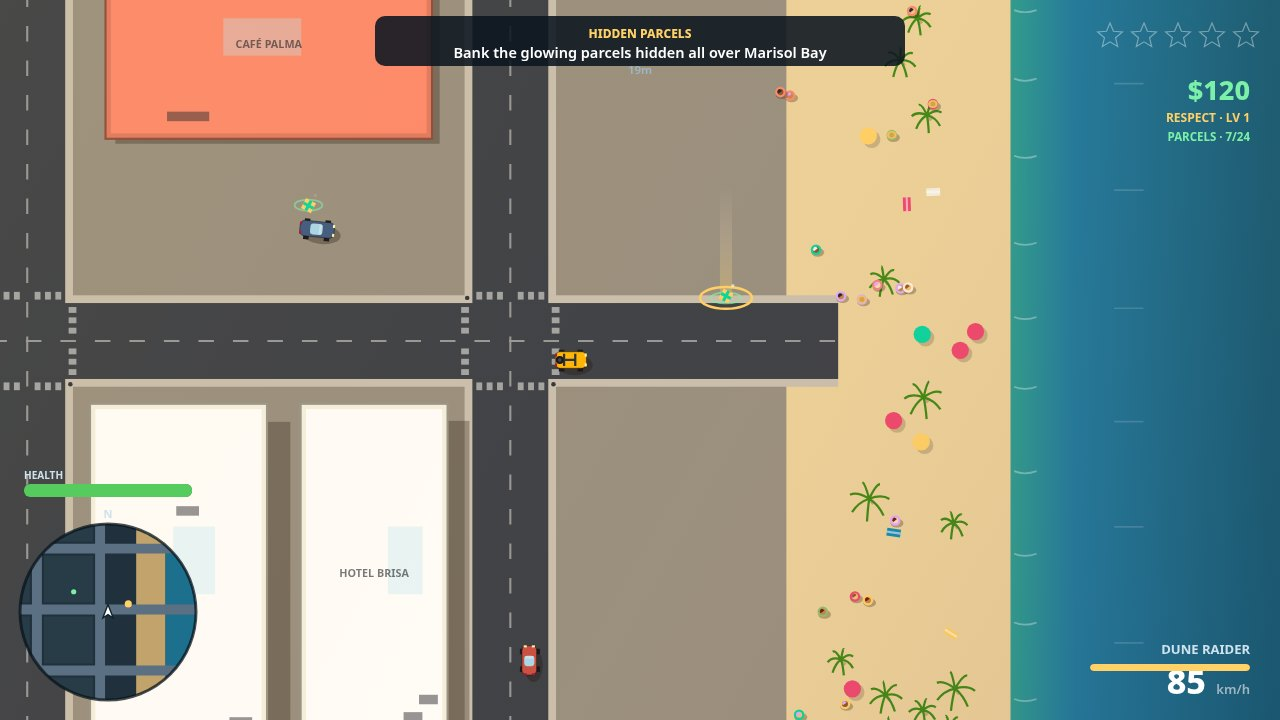
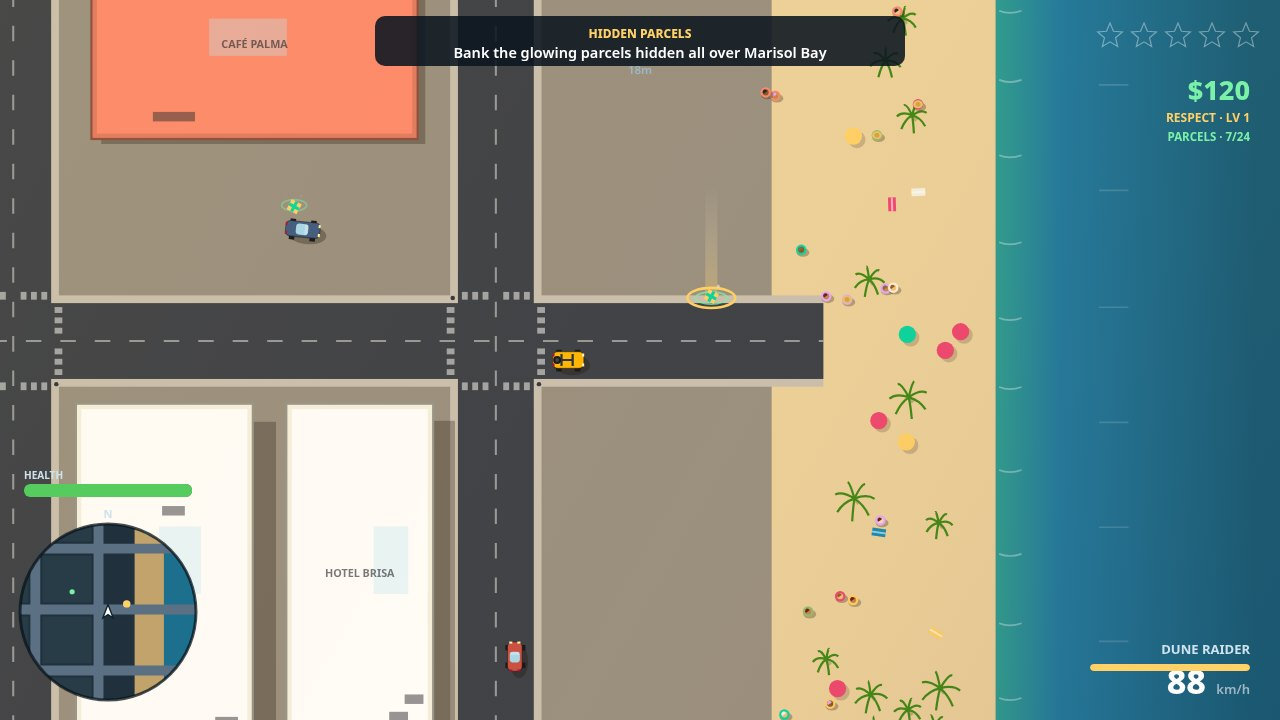
Refinement pass in a recorded session: parcel-hunting aids (brightening rings, breathing minimap pips), a hotter Shore Run rematch, Bastion SUV sand pace, brisker traffic and MBPD reinforcement timing, wider car-entry reach, save hardening, horn level, wider pedestrian wardrobe, warmer Flats rooftop

diff --git a/game/src/config.js b/game/src/config.js
@@ -63,7 +63,7 @@ export const CAR_TYPES = {
   coupe: { label: 'Vireo Coupe', len: 40, wid: 18, top: 345, accel: 390, grip: 7.8, hp: 85, colours: ['#e07a5f', '#3d405b', '#81b29a', '#f2cc8f'] },
   sports: { label: 'Katana GT', len: 42, wid: 19, top: 405, accel: 470, grip: 8.4, hp: 80, colours: ['#ef476f', '#ffd166', '#06d6a0', '#118ab2', '#9b5de5'] },
   buggy: { label: 'Dune Raider', len: 36, wid: 19, top: 330, accel: 430, grip: 8.6, hp: 75, sand: 0.85, colours: ['#ffb703', '#06d6a0', '#ef476f', '#f4f1de'] },
-  suv: { label: 'Bastion SUV', len: 44, wid: 21, top: 285, accel: 300, grip: 6.4, hp: 130, colours: ['#22223b', '#4a4e69', '#9a8c98', '#c9ada7'] },
+  suv: { label: 'Bastion SUV', len: 44, wid: 21, top: 285, accel: 300, grip: 6.4, hp: 130, sand: 0.55, colours: ['#22223b', '#4a4e69', '#9a8c98', '#c9ada7'] },
   van: { label: 'Hauler Van', len: 46, wid: 21, top: 255, accel: 260, grip: 6.0, hp: 140, colours: ['#e8e9eb', '#b8b8bd', '#5e60ce'] },
   armored: { label: 'Brinks Armored Van', len: 48, wid: 22, top: 270, accel: 270, grip: 6.2, hp: 260, colours: ['#5b6770'] },
   police: { label: 'MBPD Interceptor', len: 42, wid: 19, top: 385, accel: 440, grip: 8.2, hp: 150, sand: 0.62, colours: ['#f4f6f8'] },

diff --git a/game/src/render.js b/game/src/render.js
@@ -434,11 +434,14 @@ function drawStashes(ctx, S) {
   for (const stash of S.city.stashes) {
     if (stash.taken || !inView(S, stash.x, stash.y, 60)) continue;
     const bob = Math.sin(S.time * 2.6 + stash.id * 1.7) * 2.2;
+    // The ring brightens and swells as Juno closes in: a quiet promise
+    // that she is nearly on top of this one.
+    const near = Math.max(0, 1 - Math.hypot(stash.x - S.player.x, stash.y - S.player.y) / 300);
     ctx.save();
-    ctx.strokeStyle = `rgba(123,241,168,${0.5 + Math.sin(S.time * 3.4 + stash.id) * 0.2})`;
+    ctx.strokeStyle = `rgba(123,241,168,${0.5 + Math.sin(S.time * 3.4 + stash.id) * 0.2 + near * 0.3})`;
     ctx.lineWidth = 2;
     ctx.beginPath();
-    ctx.ellipse(stash.x, stash.y, 15 + Math.sin(S.time * 3.4 + stash.id) * 2.4, 6.5, 0, 0, Math.PI * 2);
+    ctx.ellipse(stash.x, stash.y, 15 + Math.sin(S.time * 3.4 + stash.id) * 2.4 + near * 4, 6.5 + near * 1.6, 0, 0, Math.PI * 2);
     ctx.stroke();
     ctx.translate(stash.x, stash.y + bob);
     ctx.rotate(0.5);

diff --git a/game/src/save.js b/game/src/save.js
@@ -13,7 +13,9 @@ export function loadSave() {
     const raw = localStorage.getItem(SAVE_KEY);
     if (!raw) return null;
     const data = JSON.parse(raw);
-    const usable = typeof data === 'object' && data !== null && typeof data.cash === 'number';
+    // A hand-edited or half-written save can carry NaN or a string where
+    // the purse should be; only a finite cash figure is worth trusting.
+    const usable = typeof data === 'object' && data !== null && Number.isFinite(data.cash);
     return usable ? data : null;
   } catch {
     return null;
@@ -46,6 +48,7 @@ export function hasSave() {
 /** The slice of the live state worth keeping between visits. */
 export function snapshotOf(S) {
   return {
+    v: 1, // save format version, so a future shape can be told apart
     cash: S.player.cash,
     respect: S.player.respect,
     storyIdx: S.storyIdx,

diff --git a/game/src/hud.js b/game/src/hud.js
@@ -111,9 +111,10 @@ export function drawMinimap(ctx, S, cx, cy, radius) {
   if (S.city.places.safehouse) {
     blip(S.city.places.safehouse.x, S.city.places.safehouse.y, '#ffffff', 3);
   }
-  // Hidden parcels still out there show as small mint pips in range.
+  // Hidden parcels still out there show as small mint pips in range,
+  // breathing gently so the eye catches them among the static blips.
   for (const stash of S.city.stashes) {
-    if (!stash.taken) blip(stash.x, stash.y, '#7bf1a8', 2.6);
+    if (!stash.taken) blip(stash.x, stash.y, '#7bf1a8', 2.7 + Math.sin(S.time * 3.4 + stash.id) * 0.5);
   }
   if (S.marker && S.screen === 'play') blip(S.marker.x, S.marker.y, '#ffd166', 4);
   for (const ped of S.peds) {

diff --git a/game/src/random.js b/game/src/random.js
@@ -39,15 +39,16 @@ export function chance(rng, p) {
 /**
  * A shuffled copy of a list, Fisher–Yates from the back — the same walk
  * shuffledNames in city.js always made, now shared: the name bags, the
- * hidden-parcel spots and anything else that wants a fair deal.
+ * hidden-parcel spots and anything else that wants a fair deal. The
+ * input list is never mutated; the caller gets a fresh array back.
  */
 export function shuffle(rng, list) {
   const out = [...list];
   for (let i = out.length - 1; i > 0; i--) {
     const j = Math.floor(rng() * (i + 1));
-    const tmp = out[i];
+    const held = out[i];
     out[i] = out[j];
-    out[j] = tmp;
+    out[j] = held;
   }
   return out;
 }

diff --git a/main.ts b/main.ts
@@ -39,7 +39,9 @@ if (existsSync(shotsDir)) cpSync(shotsDir, join(outDir, 'screenshots'), { recurs
 // anyway: over 4 screenshots or one past 256 KiB, a game/ past 993 entries
 // or 48 MiB, or a single game/ path past 1000 bytes. /output as a whole is
 // capped at 1000 entries and 64 MiB, shared by game/, screenshots/ and
-// dossier.json, so the margins matter.
+// dossier.json, so the margins matter. The four screenshots are the staged
+// scenes listed in shots.json; take-screenshots.mjs enforces the same
+// 256 KiB cap at capture time, so a breach is caught long before hand-in.
 const dossier = buildDossier(outDir, {
   text_max_bytes: 163840,
   screenshots: { max: 4, max_bytes: 262144 },

diff --git a/game/src/pedestrians.js b/game/src/pedestrians.js
@@ -12,8 +12,8 @@ import { collideCircle } from './city.js';
 const WALKER_TARGET = 26;
 let nextPedId = 1;
 
-const HAIR_COLOURS = ['#22223b', '#6f1d1b', '#99582a', '#e0aaff', '#f2f2f2'];
-const PANTS_COLOURS = ['#26303a', '#5b4a3f', '#31556b', '#6b3155', '#3a3f4a', '#7a6a53'];
+const HAIR_COLOURS = ['#22223b', '#6f1d1b', '#99582a', '#e0aaff', '#f2f2f2', '#8a6642'];
+const PANTS_COLOURS = ['#26303a', '#5b4a3f', '#31556b', '#6b3155', '#3a3f4a', '#7a6a53', '#274156'];
 
 /** Create a pedestrian. `role` is 'walker' unless a mission or the law says otherwise. */
 export function createPed(x, y, rng, role = 'walker') {

diff --git a/game/src/missions.js b/game/src/missions.js
@@ -303,7 +303,9 @@ export function sideJob(S, kind) {
             for (let i = 0; i < rivalTypes.length; i++) {
               const car = createCar(rivalTypes[i], 1392 - i * 6, 1964 + i * 44, 0, 'racer', S2.rng);
               car.cp = 0;
-              car.skill = 0.85 - i * 0.04;
+              // A rematch should bite harder than the first meeting did:
+              // both Shore Run regulars run a touch hotter than the Kings.
+              car.skill = 0.87 - i * 0.04;
               S2.cars.push(car);
               M.data.rivals.push(car);
               M.ownCar(car);

diff --git a/game/src/shots.js b/game/src/shots.js
@@ -87,7 +87,7 @@ export function stageShot(S, name) {
         i: 0,
       };
       S.screen = 'play';
-      return 0.9;
+      return 1.05; // long enough for Vera's dialogue box to settle open
     }
     case 'beach': {
       // The Dune Raider on the shore road, hunting the parcels: seven
@@ -144,6 +144,6 @@ export function shotDrive(S) {
   return {
     tx: car.x + Math.cos(car.angle) * lookAhead,
     ty: car.y + Math.sin(car.angle) * lookAhead,
-    want: car.top * 0.72,
+    want: car.top * 0.75, // a brisk pace: the cover frame should feel fast
   };
 }

diff --git a/serve.ts b/serve.ts
@@ -77,6 +77,16 @@ const server = createServer((req, res) => {
   createReadStream(filePath).pipe(res);
 });
 
+server.on('error', (err: NodeJS.ErrnoException) => {
+  // The common case: another server (or an earlier serve.ts) holds the port.
+  if (err.code === 'EADDRINUSE') {
+    console.error(`Port ${port} is already in use — try --port ${port + 1}.`);
+  } else {
+    console.error(`serve.ts: ${err.message}`);
+  }
+  process.exit(1);
+});
+
 server.listen(port, host, () => {
   console.log(`Marisol Heatwave is serving game/ at http://${host}:${port}`);
 });

diff --git a/game/index.html b/game/index.html
@@ -3,6 +3,8 @@
 <head>
 <meta charset="utf-8">
 <meta name="viewport" content="width=device-width, initial-scale=1">
+<meta name="description" content="Marisol Heatwave: an original open-world crime game in the browser. Roam Marisol Bay on foot and by car, run Vera Solano's six-mission story, hunt 24 hidden parcels, race the Shore Run, and stay ahead of the MBPD.">
+<meta name="theme-color" content="#101d26">
 <title>Marisol Heatwave — an open-world crime game</title>
 <style>
   /* The game is one full-window canvas; the page itself never scrolls. */

diff --git a/game/src/audio.js b/game/src/audio.js
@@ -154,10 +154,11 @@ export function sfxSting() {
   noise(0.4, 0.12, 200, 0.6);
 }
 
-/** A traffic horn, close enough to hear. */
+/** A traffic horn, close enough to hear — voiced a touch louder than the
+ *  mix's background effects, since a horn's whole job is to cut through. */
 export function sfxHorn() {
-  tone(370, 0.18, 'square', 0.08);
-  tone(466, 0.18, 'square', 0.06, null, 0.01);
+  tone(370, 0.18, 'square', 0.1);
+  tone(466, 0.18, 'square', 0.075, null, 0.01);
 }
 
 /** An explosion: low noise rolling into a sub-bass thump. */
